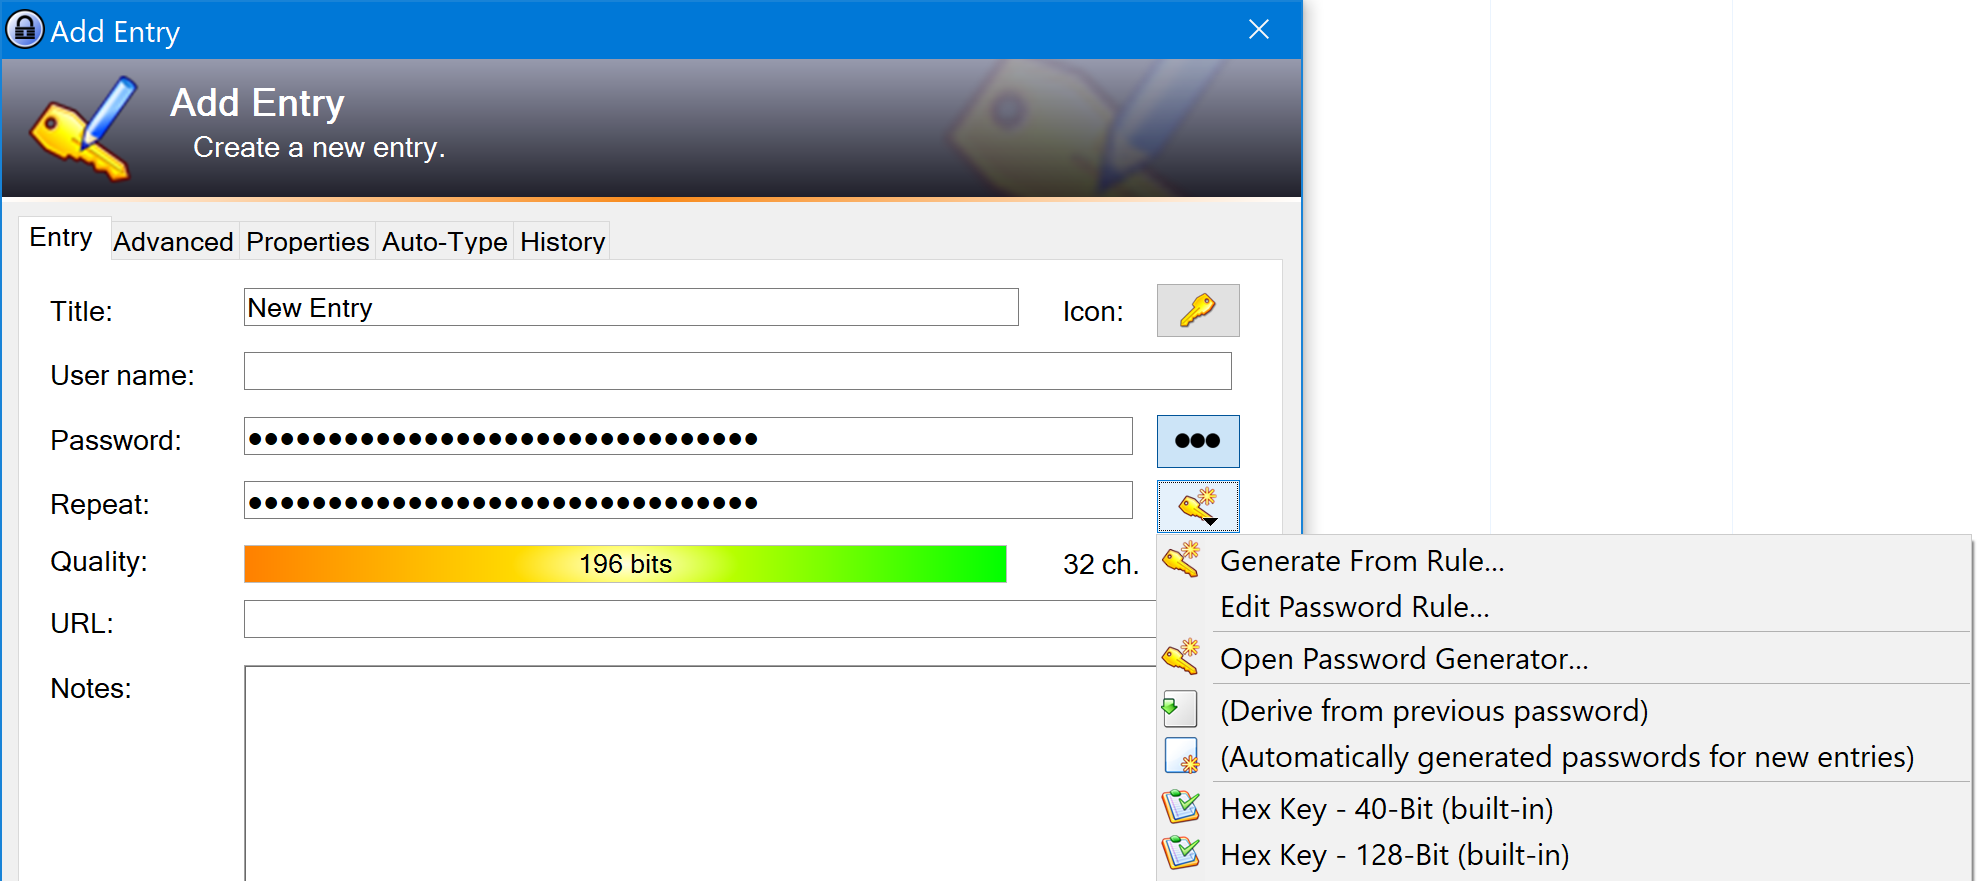
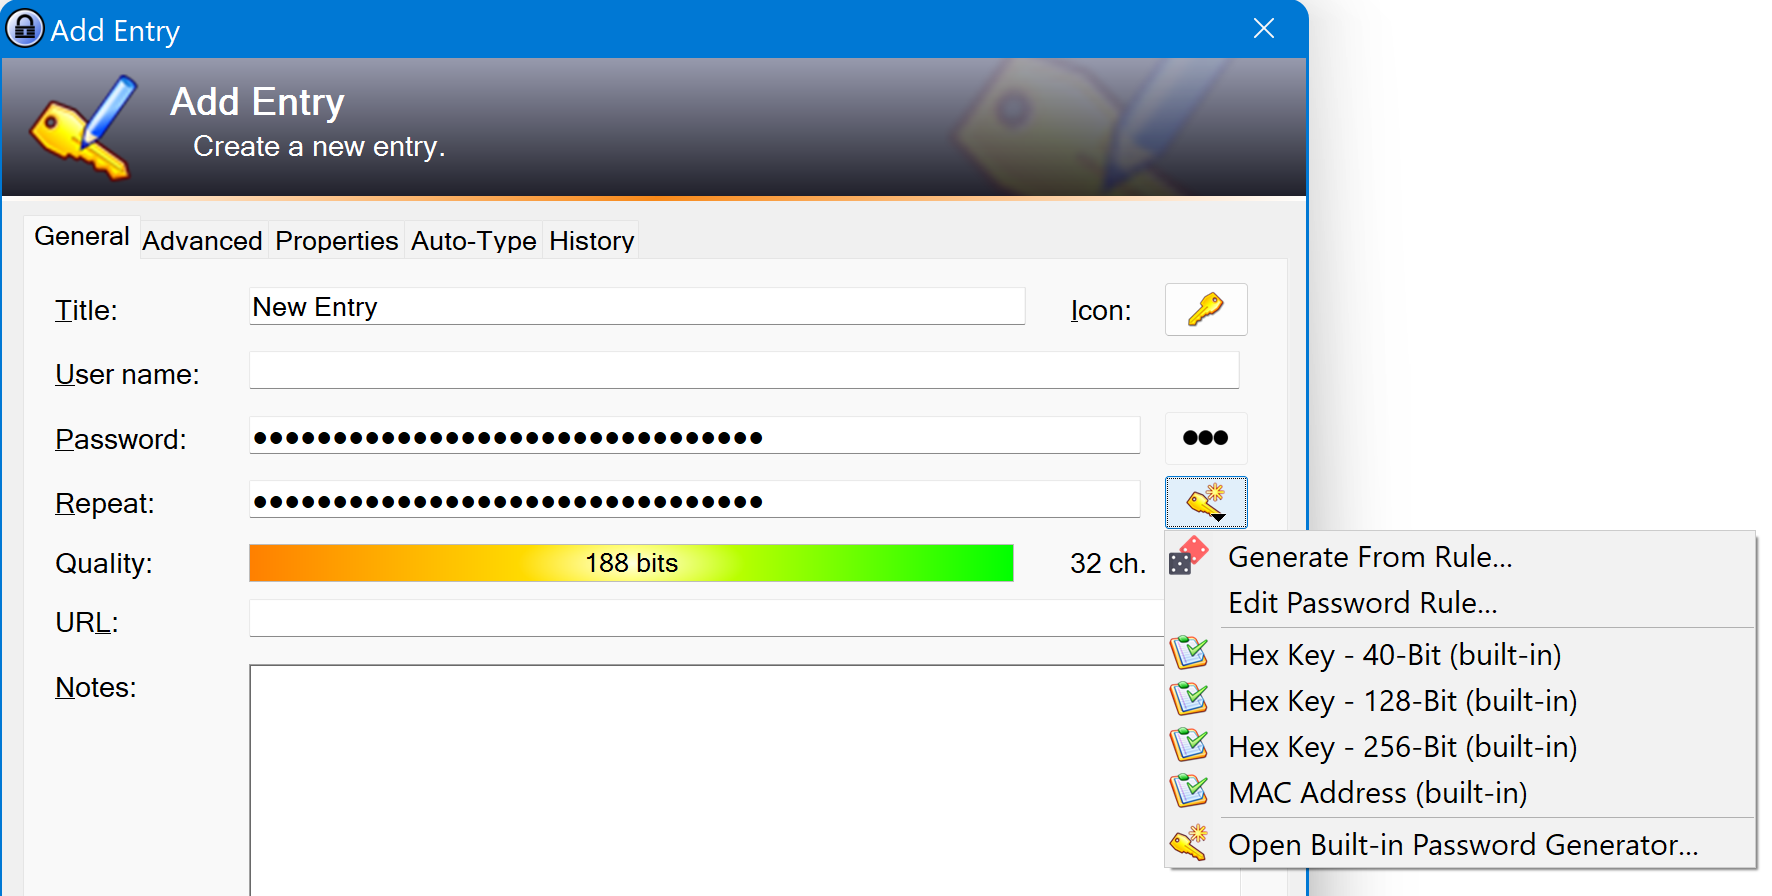
Update readme with UI changes

diff --git a/README.md b/README.md
@@ -20,7 +20,7 @@ The Change Password window will open. This window shows the current password as 
 
 <img src="Images/change.png" alt="Change Password window" width="488.8">
 
-Once you have successfully changed the password, click **Accept** to store the new password into the KeePass database. Every time you change the password, the old password will be backed up in the entry’s [history](https://keepass.info/help/v2/entry.html#history).
+Once you have successfully changed the password, click **Save New Password** to store the new password into the KeePass database. Every time you change the password, the old password will be backed up in the entry’s [history](https://keepass.info/help/v2/entry.html#history).
 
 ### Password rules
 By default, this tool will generate a new password based on the **Automatically generated passwords for new entries** profile in KeePass. You should [configure this profile](https://keepass.info/help/base/pwgenerator.html#configauto) to produce a very strong password. However, for services for which the passwords generated by this profile are [*too* strong](https://twitter.com/PWTooStrong), the plugin can help you generate a password according to each service’s individual password policy.
@@ -60,7 +60,7 @@ Once you have finished entering the password requirements, click **Accept**. If 
 Any time you need to generate another password, just use the Generate New Password menu item. It will automatically use the rule and expiration date that you have set for that entry.
 
 ### Other features
-You can access this plugin’s features from the password generation menu in the standard KeePass editor window. Click **Generate From Rule** to generate a new password based on the entry’s configured rule, or click **Edit Password Rule** to edit the rule.
+You can access this plugin’s features from the password generation menu in the standard KeePass editor window. Click **Generate From Rule** to generate a new password based on the entry’s configured rule, or click **Edit Password Rule** to edit the rule. Click **Open Built-in Password Generator** to access the normal KeePass password generator.
 
 <img src="Images/entry.png" alt="The Add Entry dialog with the Generate From Rule and Edit Password Rule menu items visible" width="790.8">
 
